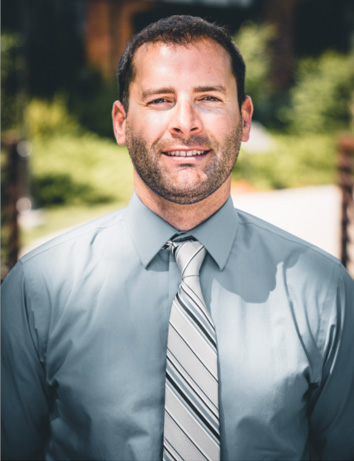
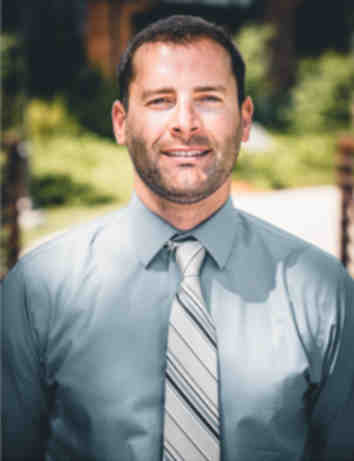
photo optimization and insertion

diff --git a/expungement.css b/expungement.css
@@ -1,49 +1,38 @@
-a{
-  border-radius: 50%;
-  max-width: 150px;
-  margin: auto;
+a {
+    border-radius: 50%;
+    max-width: 150px;
+    margin: auto;
 }
 
-
-body
-{
+body {
     height: 100%;
-
     background: -webkit-linear-gradient(grey, white);
 }
 
-.btn
-{
+.btn {
     font-weight: bold;
-
     margin: 0 10px;
-
     color: white;
     border: none !important;
     text-shadow: none;
 }
 
-.btn-success
-{
+.btn-success {
     background: rgb(25, 135, 43);
 }
 
-.dropdown-menu
-{
-  color: white;
+.dropdown-menu {
+    color: white;
     background: grey;
     height: 100px;
-
 }
 
-.dropdown-menu li
-{
+.dropdown-menu li {
     color: white;
     border: none;
 }
 
-.dropdown-toggle
-{
+.dropdown-toggle {
     border-radius: 50%;
 }
 
@@ -53,80 +42,67 @@ footer {
     padding: 8px;
 }
 
-footer h5{
-  color: white;
+footer h5 {
+    color: white;
 }
 
-footer .img-responsive{
-  max-width: 50%;
-  height: auto;
+footer .img-responsive {
+    max-width: 50%;
+    height: auto;
 }
 
-.fa-bars{
-  color: white;
+.fa-bars {
+    color: white;
 }
 
-.intro
-{
+.intro {
     padding: 200px 25px;
-
     color: rgb(214, 145, 28);
-    background: url('Images/lawJumbotron2.jpg') center center fixed;
+    background: url('Images/lawJumbotron.jpg') center center fixed;
     background-repeat: no-repeat;
-    background-size: cover;
+    background-size: 100% 100%;
     text-shadow: -.1em -.1em .1em black;
 }
 
-.intro p
-{
+.intro p {
     font-weight: bold;
-
     color: white;
     text-shadow: -.1em -.1em .1em black;
 }
 
-.jumbotron
-{
+.jumbotron {
     margin-top: 145px;
 }
 
-#nav_bar li>a{
-  color: white;
-  background: none;
+#nav_bar li>a {
+    color: white;
+    background: none;
 }
 
-.collapse.navbar-collapse{
-  margin-left: auto;
+.collapse.navbar-collapse {
+    margin-left: auto;
 }
 
-.navbar-collapse ul{
-  text-align: center;
-    margin:  45px auto;
+.navbar-collapse ul {
+    text-align: center;
+    margin: 45px auto;
 }
 
-
-
-.navbar-brand
-{
+.navbar-brand {
     max-width: 169px;
     height: auto;
     padding-left: auto;
     margin-right: auto;
 }
 
-
-
-.navbar-brand img
-{
+.navbar-brand img {
     display: block;
-
     max-width: 75%;
     height: auto;
     margin-left: 50px;
 }
 
-p
-{
+p {
     font-size: 1.4em;
     font-weight: bold;
 }

diff --git a/index.css b/index.css
@@ -139,9 +139,9 @@
      padding: 200px 25px;
      text-align: center;
      color: rgb(214, 145, 28);
-     background: url('Images/lawJumbotron2.jpg') center center fixed;
+     background: url('Images/lawJumbotron.jpg') center center fixed;
      background-repeat: no-repeat;
-     background-size: cover;
+     background-size: 100% 100%;
      text-shadow: -.1em -.1em .1em black;
  }
 
